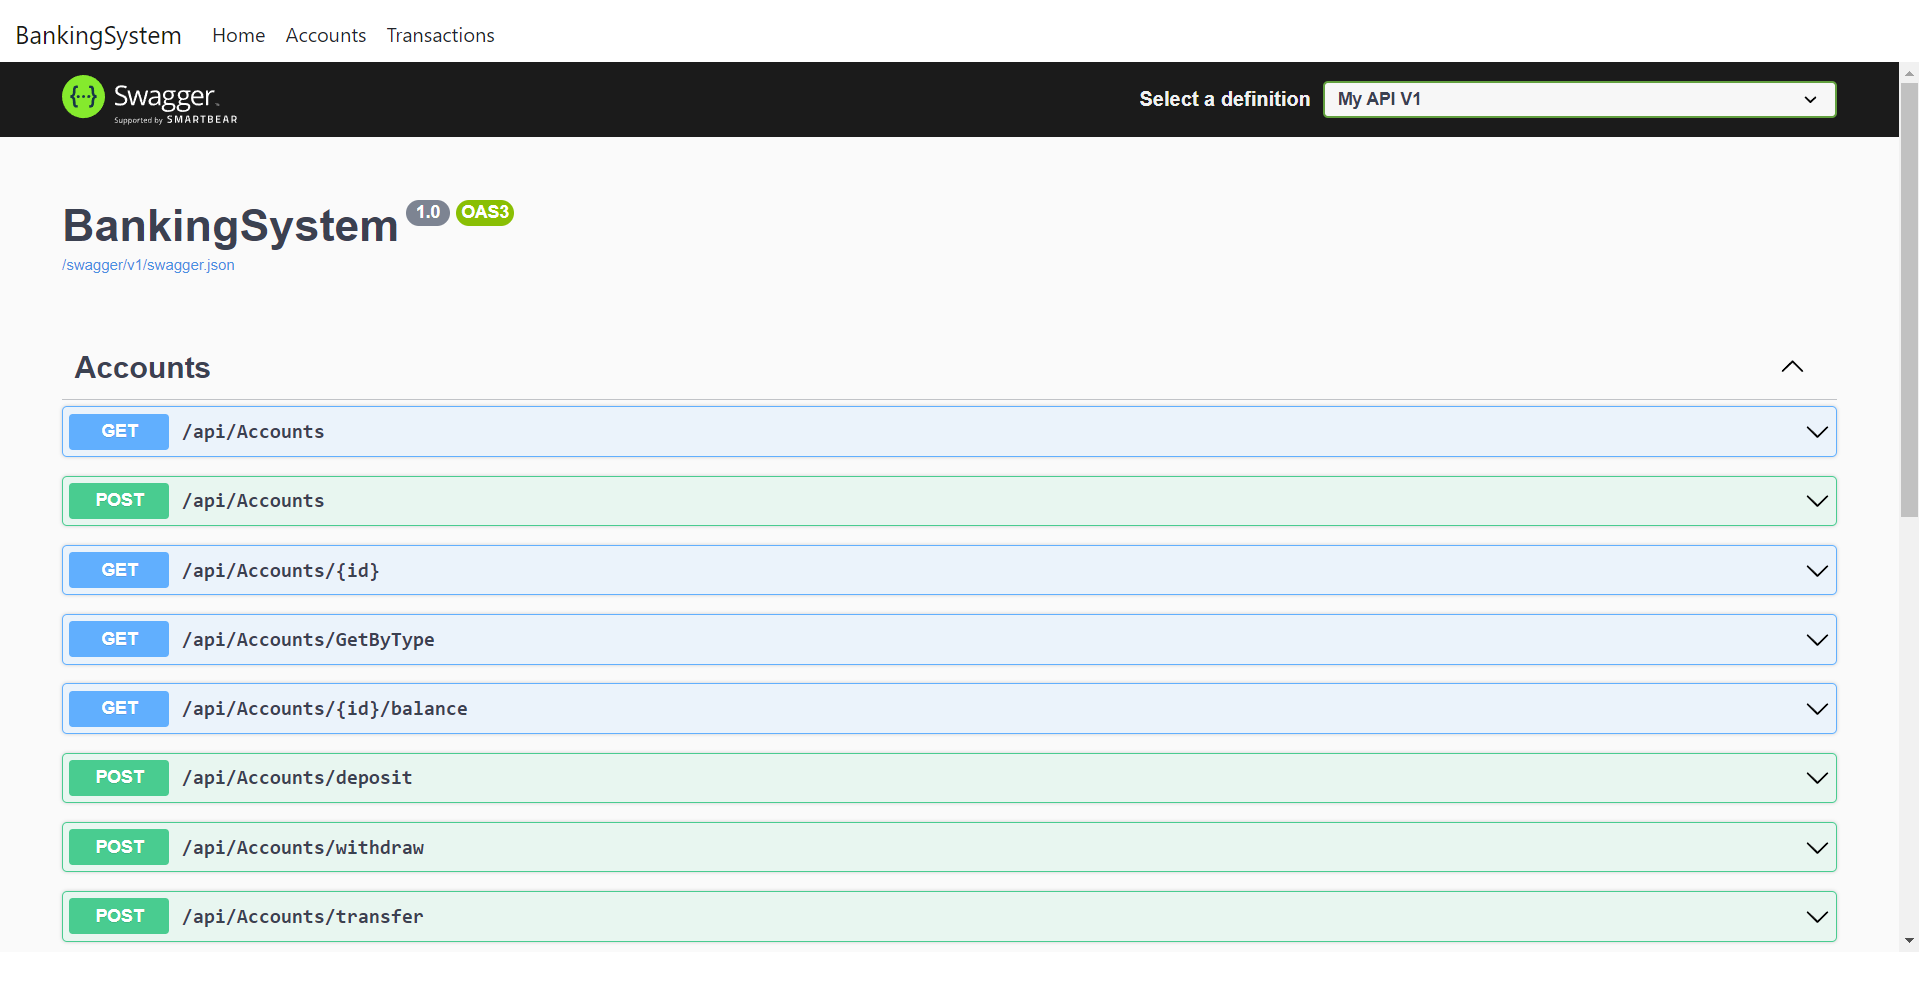
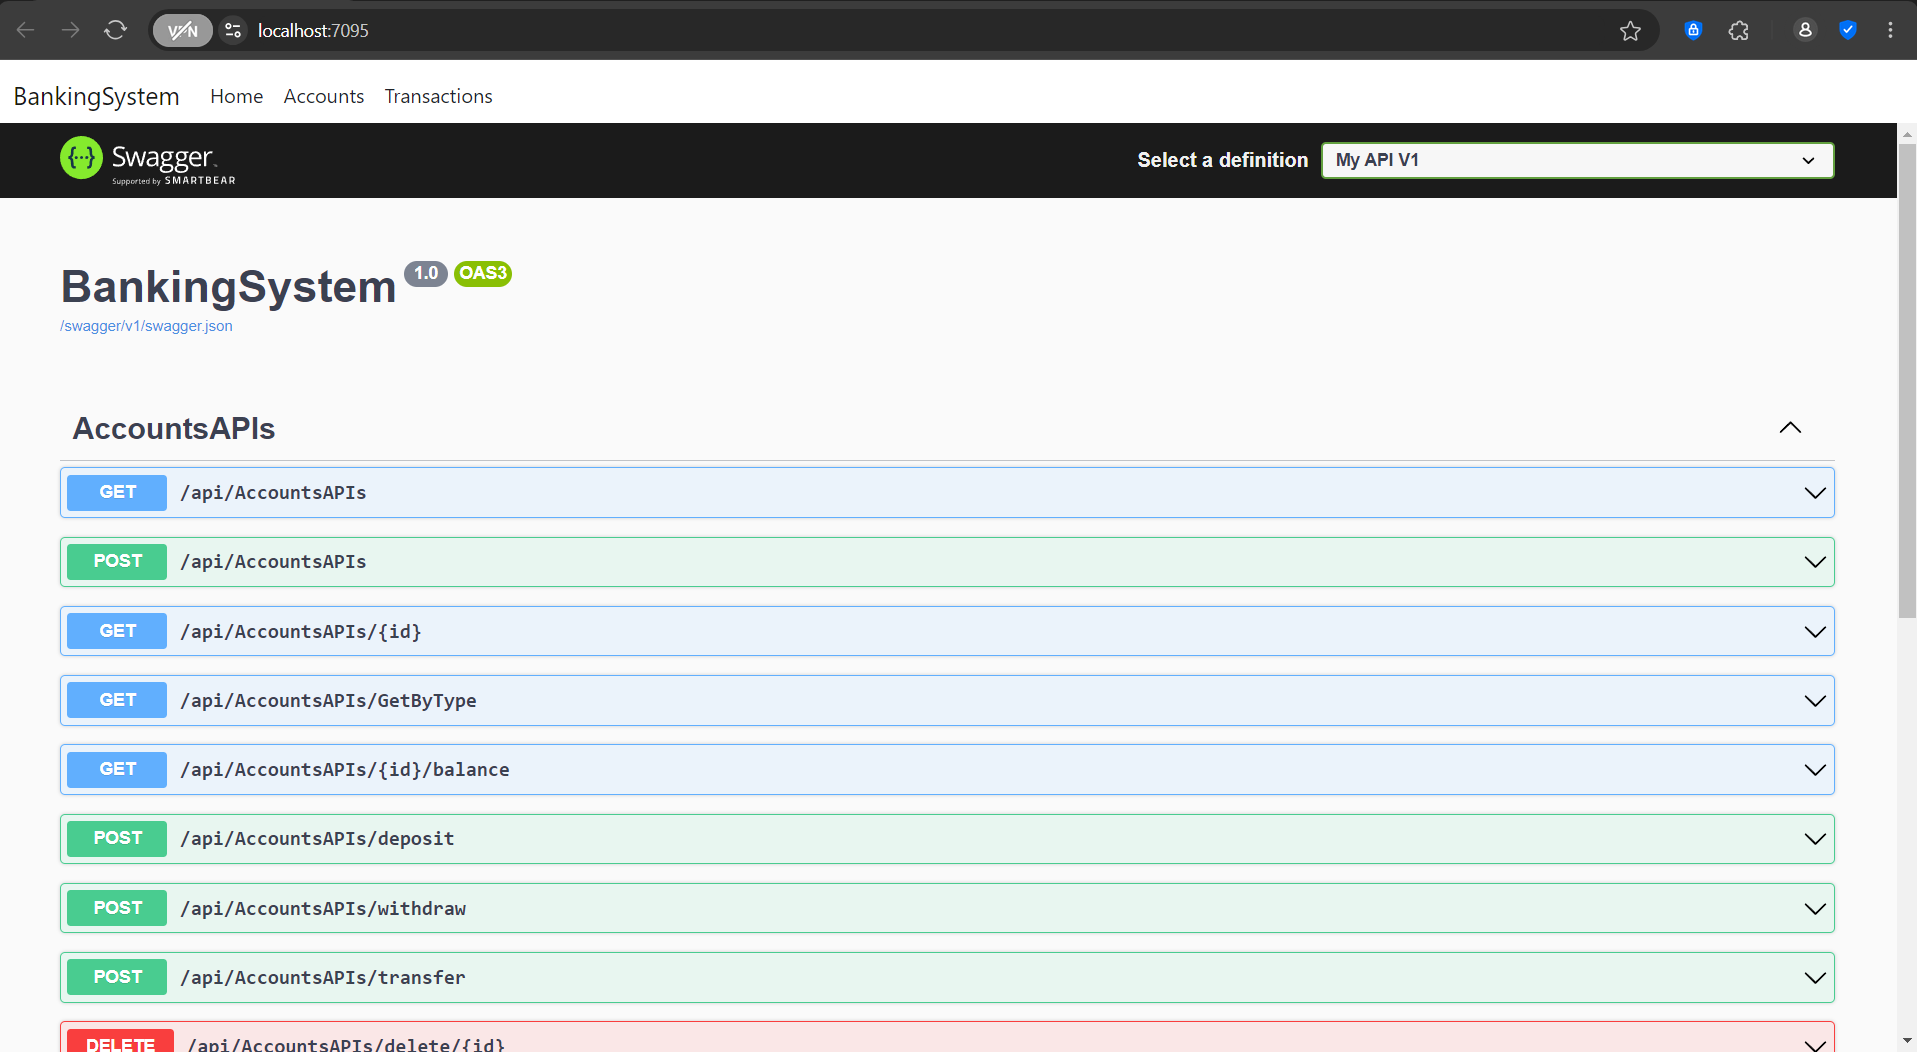
change screenshoots for readme

diff --git a/Controllers/TransactionsAPIsController.cs b/Controllers/TransactionsAPIsController.cs
@@ -19,12 +19,12 @@ namespace BankingSystem.Controllers
 {
     [Route("api/[controller]")]
     [ApiController]
-    public class TransactionsController : ControllerBase
+    public class TransactionsAPIsController : ControllerBase
     {
         private readonly AppDbContext _context;
 
         
-        public TransactionsController (AppDbContext context)
+        public TransactionsAPIsController (AppDbContext context)
         {
             _context = context;
         }

diff --git a/Controllers/AccountsAPIsController.cs b/Controllers/AccountsAPIsController.cs
@@ -11,14 +11,14 @@ namespace BankingSystem.Controllers
 {
     [Route("api/[controller]")]
     [ApiController]
-    public class AccountsController : ControllerBase
+    public class AccountsAPIsController : ControllerBase
     {
 
 
         private readonly AppDbContext _context;
 
 
-        public AccountsController(AppDbContext context)
+        public AccountsAPIsController(AppDbContext context)
         {
             _context = context;
         }
